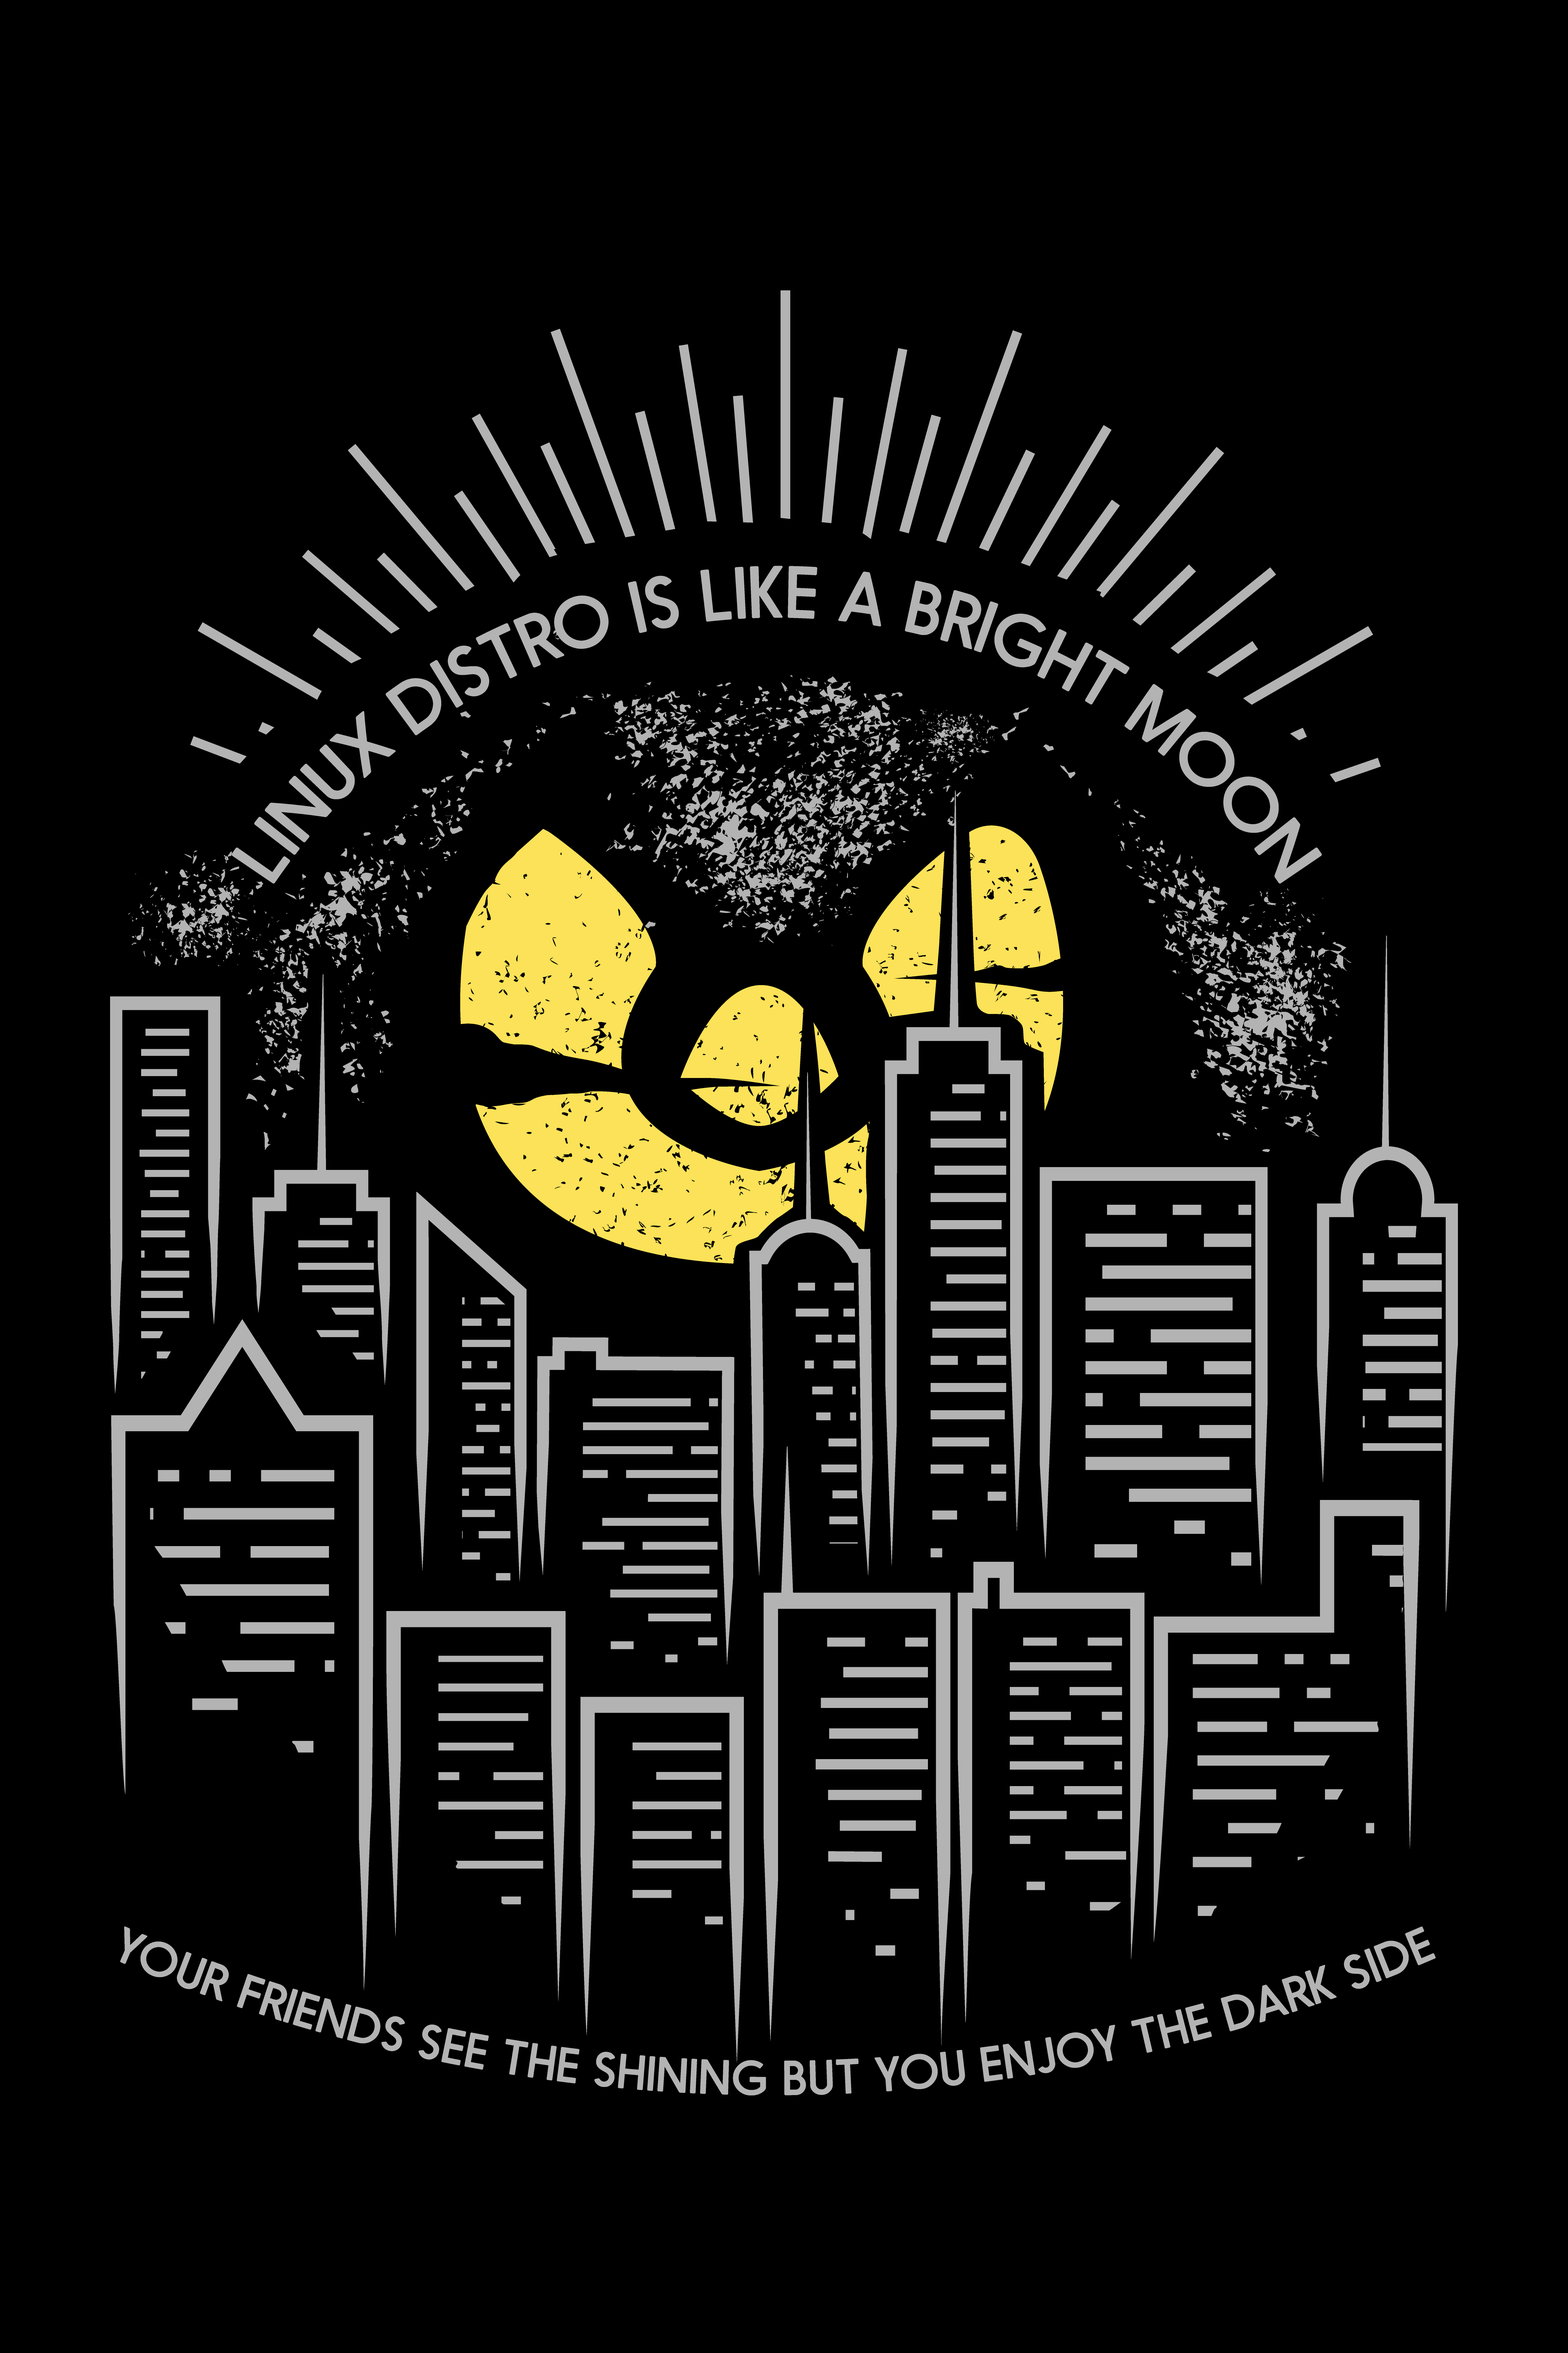
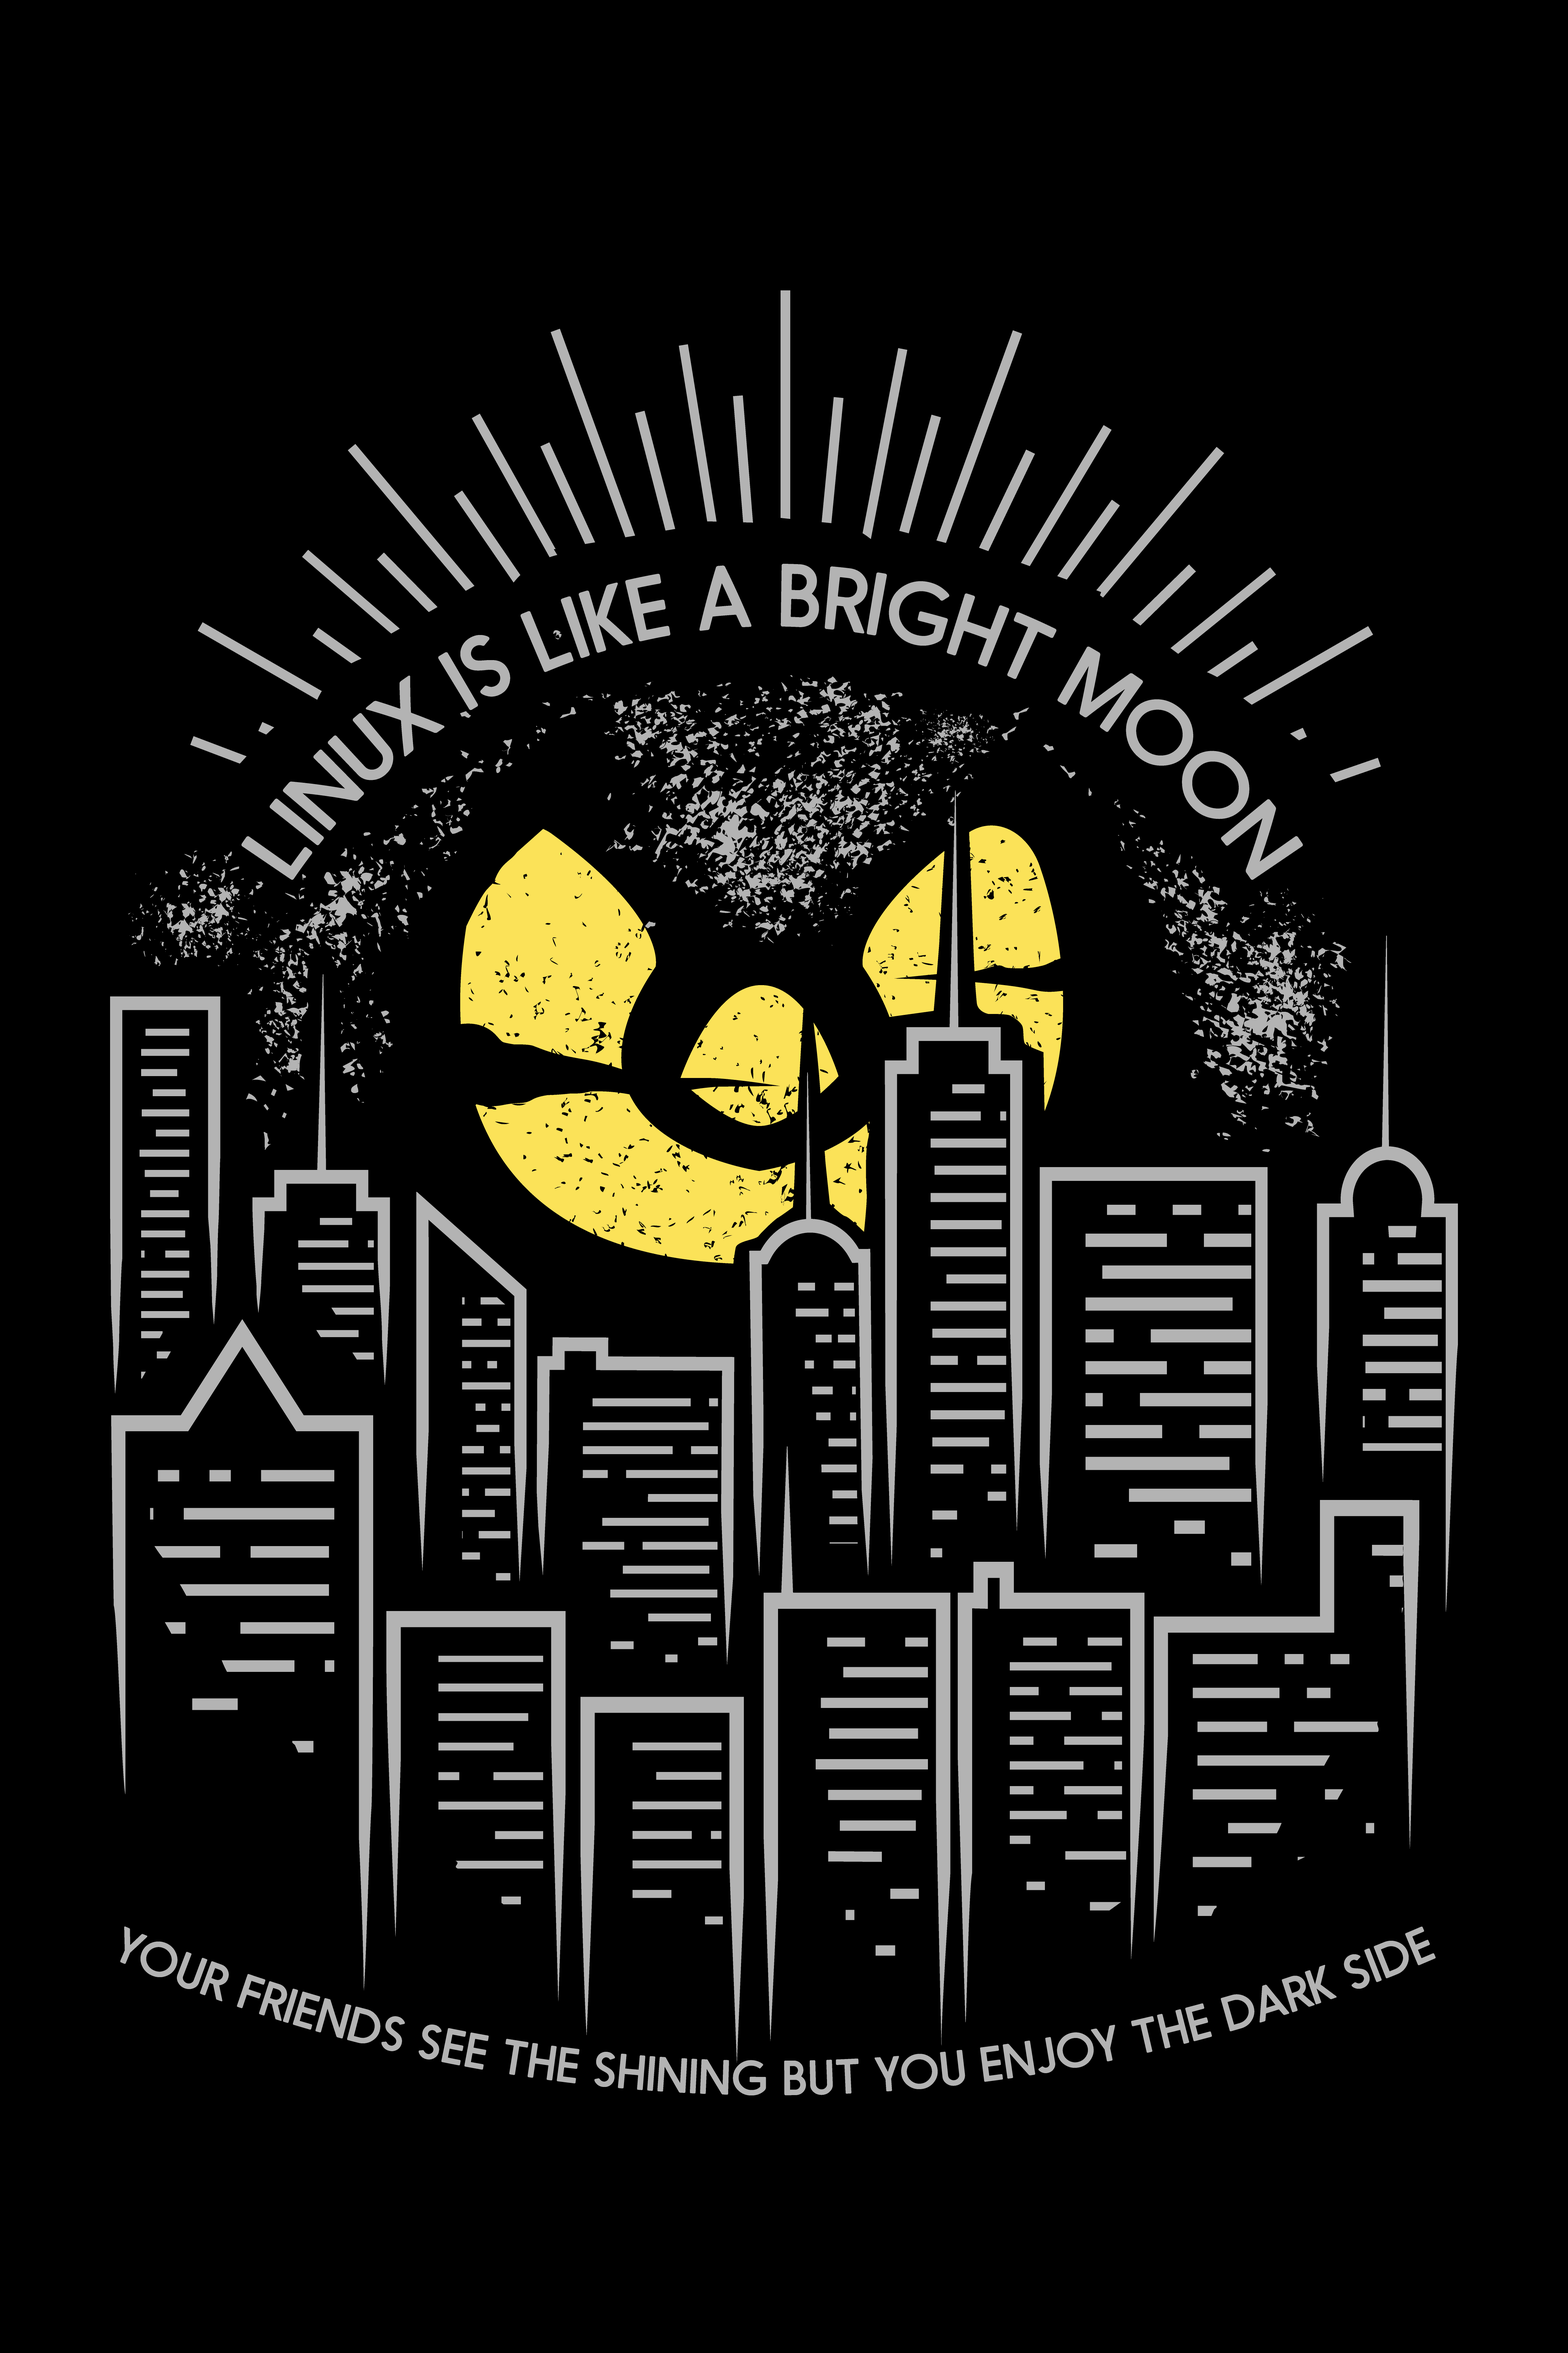
Linux is like moon (updated)
Linux is like moon (updated)

Changed region(s): [[0.156, 0.2184, 0.8424, 0.3744]]

diff --git a/README.md b/README.md
@@ -89,7 +89,7 @@ If you like something and want it on a T-Shirt or Hoodie, please use the link be
 - [linux-is-coming.png](https://teespring.com/linux-is-coming)
 - [linux-is-the-key.png](https://teespring.com/linux-the-key)
 - [linux-lines.png](https://teespring.com/linux-lines)
-- [linux-moon.png](https://teespring.com/linux-moon)
+- [linux-moon.png](https://teespring.com/linux-is-like-moon)
 - [linux-wave.png](https://teespring.com/just-linux-lines)
 - [live-free.png](https://teespring.com/dsd-live-free)
 - [may-the-foss-be-with-you.png](https://teespring.com/may-the-foss-be-with-you)
